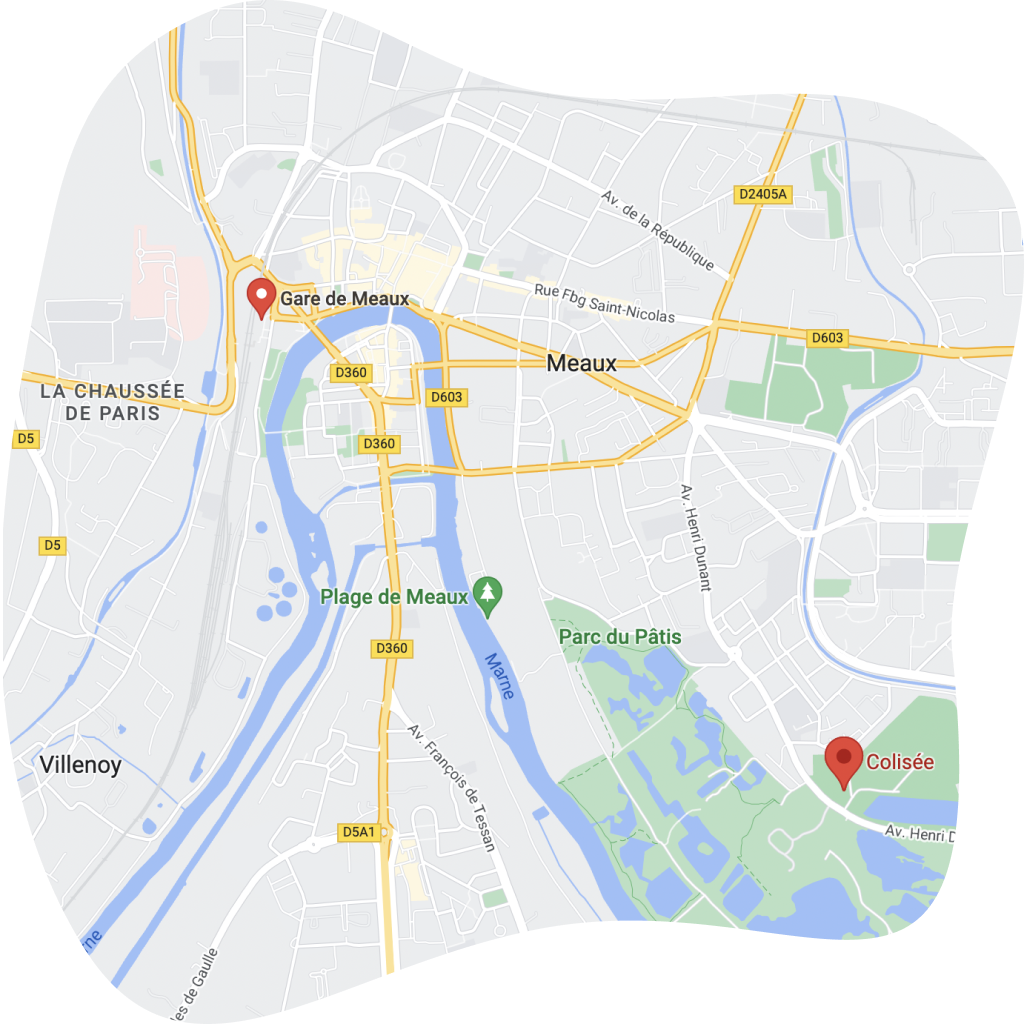
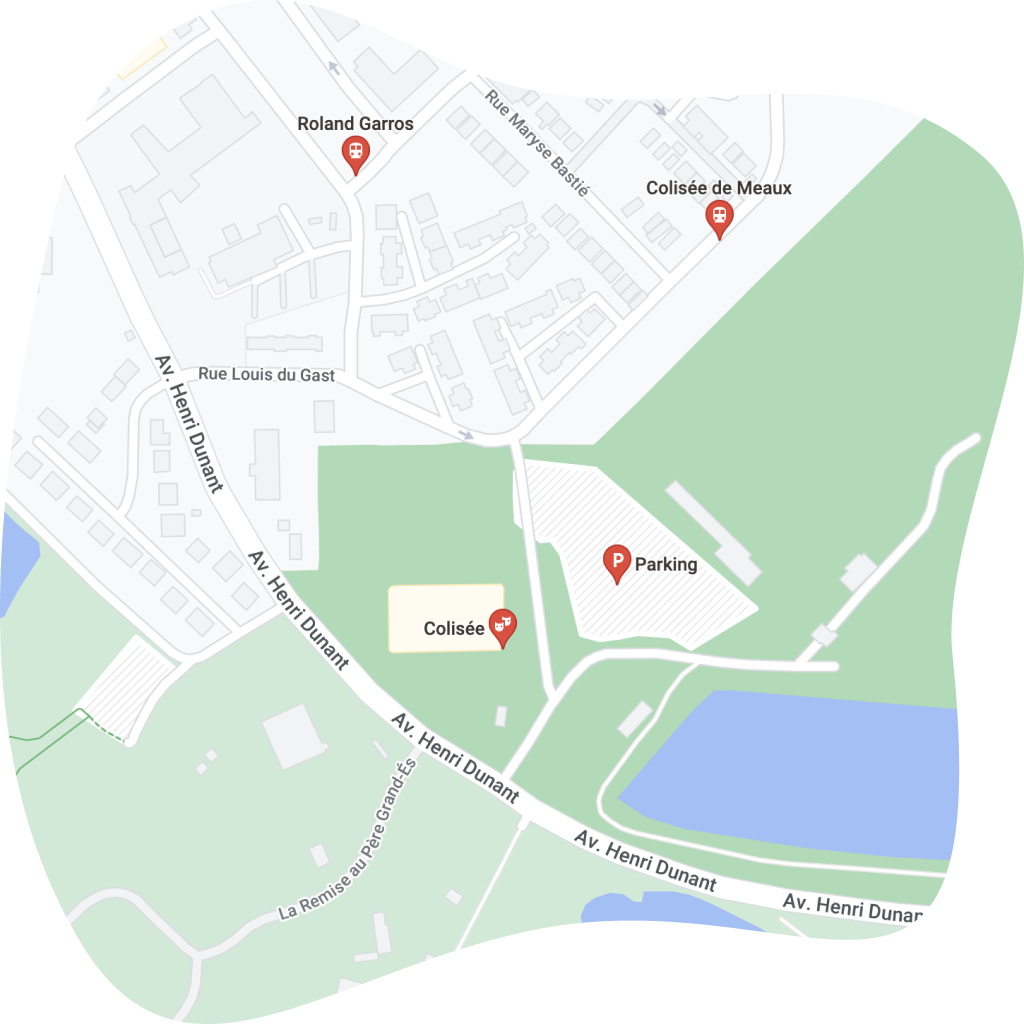
🎪✨ Create access page

diff --git a/apps/show/src/routes/acces.tsx b/apps/show/src/routes/acces.tsx
@@ -1,0 +1,184 @@
+import { actionClassNames } from "~/core/actions";
+import { BaseLink } from "~/core/baseLink";
+import { cn } from "~/core/classNames";
+import { Icon, IconProps } from "~/generated/icon";
+import { mapImages } from "~/images/map";
+import { BubbleShape } from "~/layout/bubbleShape";
+import {
+  HeroSection,
+  HeroSectionAside,
+  HeroSectionImage,
+  HeroSectionParagraph,
+  HeroSectionTitle,
+} from "~/layout/heroSection";
+
+export default function AccessPage() {
+  return (
+    <main className="w-full px-page flex flex-col gap-12">
+      <HeroSection>
+        <HeroSectionAside>
+          <BaseLink
+            to="https://goo.gl/maps/bix61Gb2vAUdpgtq5"
+            className="group relative w-full flex"
+          >
+            <HeroSectionImage
+              image={mapImages}
+              className="transition-[filter] duration-100 ease-in-out group-hover:brightness-50"
+            />
+
+            <p className="absolute top-1/2 left-1/2 -translate-x-1/2 -translate-y-1/2 opacity-0 min-w-max flex items-center gap-2 text-white text-body-emphasis transition-opacity duration-100 ease-in-out group-hover:opacity-100">
+              <Icon id="arrowUpRightFromSquare" />
+              Voir le plan
+            </p>
+          </BaseLink>
+        </HeroSectionAside>
+
+        <HeroSectionAside>
+          <HeroSectionTitle isLarge>Accès au Salon</HeroSectionTitle>
+
+          <HeroSectionParagraph>
+            Voiture, bus, vélo ou à pied, tous les moyens sont bon pour venir au
+            Salon des Ani'Meaux !
+          </HeroSectionParagraph>
+        </HeroSectionAside>
+      </HeroSection>
+
+      <WarnSection />
+
+      <section className="flex">
+        <ul
+          className={cn(
+            "w-full grid grid-cols-1 grid-rows-[auto] gap-6",
+            "sm:grid-cols-2",
+            "md:grid-cols-3"
+          )}
+        >
+          {INFOS.map((info) => (
+            <li
+              key={info.title}
+              className="px-4 py-3 flex flex-col items-start gap-6"
+            >
+              <span
+                className={cn(
+                  "rounded-tl-xl rounded-tr-lg rounded-br-xl rounded-bl-lg p-3 bg-opacity-5 flex items-center justify-center text-[40px]",
+                  ICON_COLOR_CLASS_NAME[info.color]
+                )}
+              >
+                <Icon id={info.icon} />
+              </span>
+
+              <h2 className="text-title-item">{info.title}</h2>
+              <p>{info.text}</p>
+            </li>
+          ))}
+        </ul>
+      </section>
+    </main>
+  );
+}
+
+function WarnSection() {
+  return (
+    <section className="relative flex">
+      {/* Wrap the shape because it looks like SVG can only be sized with width
+      and height. But we don't want the width class to be a complexe arbitrary
+      value with hard coded size in px: `w-[calc(100%_-_16px)]` */}
+      <span
+        className={cn(
+          "absolute -z-10 top-0 left-2 bottom-0 right-2",
+          "md:left-4 md:right-4"
+        )}
+      >
+        <BubbleShape className="w-full h-full" />
+      </span>
+
+      <div
+        className={cn(
+          "w-full px-10 py-18 flex flex-col items-center gap-6 text-center",
+          "md:px-30 md:py-[60px]"
+        )}
+      >
+        <h2
+          className={cn(
+            "text-title-section-small",
+            "md:text-title-section-large"
+          )}
+        >
+          Privilégiez les transports en commun
+        </h2>
+
+        <p>
+          Compte tenu du nombre limité de places de parking, nous vous
+          conseillons de privilégiez les transports en commun pour vous rendre
+          au salon.
+        </p>
+      </div>
+    </section>
+  );
+}
+
+type Info = {
+  icon: IconProps["id"];
+  color: "blue" | "green" | "yellow" | "red" | "cyan";
+  title: string;
+  text: React.ReactNode;
+};
+
+const ICON_COLOR_CLASS_NAME: Record<Info["color"], string> = {
+  blue: "bg-blue-base text-blue-base",
+  cyan: "bg-cyan-base text-cyan-base",
+  green: "bg-green-base text-green-base",
+  red: "bg-red-base text-red-base",
+  yellow: "bg-yellow-base text-yellow-darker",
+};
+
+const INFOS: Info[] = [
+  {
+    icon: "locationDot",
+    color: "red",
+    title: "Adresse",
+    text: <>Colisée de Meaux, 73 Av. Henri Dunant, 77100 Meaux</>,
+  },
+  {
+    icon: "clock",
+    color: "blue",
+    title: "Horaires d'ouverture",
+    text: (
+      <>
+        Samedi 10 juin 2023 de 10h à 18h
+        <br />
+        Dimanche 11 juin 2023 de 10h à 18h
+      </>
+    ),
+  },
+  {
+    icon: "bus",
+    color: "green",
+    title: "Venir en transports en commun",
+    text: (
+      <>
+        Bus ligne{" "}
+        <BaseLink
+          to="https://www.transdev-idf.com/ligne-D/meaux-villenoy/511-511"
+          className={actionClassNames.proseInline()}
+        >
+          D
+        </BaseLink>{" "}
+        ou{" "}
+        <BaseLink
+          to="https://www.transdev-idf.com/ligne-I/meaux-meaux/511-511"
+          className={actionClassNames.proseInline()}
+        >
+          I
+        </BaseLink>
+        , arrêt Colisée de Meaux ou Roland Garros
+      </>
+    ),
+  },
+  {
+    icon: "car",
+    color: "yellow",
+    title: "Venir en voiture",
+    text: <>Parking gratuit sur place. Le nombre de places est limité...</>,
+  },
+];

diff --git a/apps/show/src/routes/index.tsx b/apps/show/src/routes/index.tsx
@@ -79,7 +79,7 @@ export default function HomePage() {
       <PartnersSection />
       <ExhibitorsSection />
 
-      <HeroSection id="acces">
+      <HeroSection>
         <HeroSectionAside>
           <BaseLink
             to="https://goo.gl/maps/bix61Gb2vAUdpgtq5"
@@ -98,26 +98,17 @@ export default function HomePage() {
         </HeroSectionAside>
 
         <HeroSectionAside>
-          <HeroSectionTitle>Accéder au salon</HeroSectionTitle>
+          <HeroSectionTitle>Accès au Salon</HeroSectionTitle>
           <HeroSectionParagraph>
-            <strong className="text-body-emphasis">Adresse</strong>
-            <br />
-            Colisée de Meaux, 73 Av. Henri Dunant, 77100 Meaux
+            Voiture, bus, vélo ou à pied, tous les moyens sont bon pour venir au
+            Salon des Ani'Meaux !
           </HeroSectionParagraph>
-          <HeroSectionParagraph>
-            <strong className="text-body-emphasis">Horaires</strong>
-            <br />
-            Samedi 10 juin 2023 de 10h à 18h
-            <br />
-            Dimanche 11 juin 2023 de 10h à 18h
-          </HeroSectionParagraph>
-          <HeroSectionParagraph>
-            <strong className="text-body-emphasis">Accès</strong>
-            <br />
-            Bus ligne D, arrêt : Colisée de Meaux
-            <br />
-            Parking gratuit sur place
-          </HeroSectionParagraph>
+
+          <HeroSectionAction>
+            <BaseLink to="/acces" className={actionClassNames.standalone()}>
+              S'y rendre
+            </BaseLink>
+          </HeroSectionAction>
         </HeroSectionAside>
       </HeroSection>
     </main>

diff --git a/apps/show/src/layout/navigation/smallNav.tsx b/apps/show/src/layout/navigation/smallNav.tsx
@@ -39,7 +39,7 @@ export function SmallNav() {
     <header
       ref={headerRef}
       className={cn(
-        "relative z-[0] w-full pt-safe-2 px-page pb-2 flex items-center justify-between",
+        "relative z-10 w-full pt-safe-2 px-page pb-2 flex items-center justify-between",
         "md:hidden"
       )}
       onKeyDown={handleEscape(() => setIsOpened(false))}
@@ -100,7 +100,7 @@ export function SmallNav() {
               >
                 <NavLink to="/exposants">Exposants</NavLink>
                 <NavLink to="/programme">Programme</NavLink>
-                <NavLink to="/#acces">Accès</NavLink>
+                <NavLink to="/acces">Accès</NavLink>
                 <NavLink to="/faq">FAQ</NavLink>
               </nav>
             </div>

diff --git a/apps/show/src/layout/heroSection.tsx b/apps/show/src/layout/heroSection.tsx
@@ -3,16 +3,13 @@ import { StaticImage, StaticImageProps } from "~/dataDisplay/image";
 
 export function HeroSection({
   isReversed = false,
-  id,
   children,
 }: {
   isReversed?: boolean;
-  id?: string;
   children: React.ReactNode;
 }) {
   return (
     <section
-      id={id}
       className={cn(
         "flex flex-col items-center gap-6",
         {

diff --git a/apps/show/src/layout/navigation/largeNav.tsx b/apps/show/src/layout/navigation/largeNav.tsx
@@ -19,7 +19,7 @@ export function LargeNav() {
       <nav className="flex lg:gap-2">
         <NavLink to="/exposants">Exposants</NavLink>
         <NavLink to="/programme">Programme</NavLink>
-        <NavLink to="/#acces">Accès</NavLink>
+        <NavLink to="/acces">Accès</NavLink>
         <NavLink to="/faq">FAQ</NavLink>
       </nav>
 
